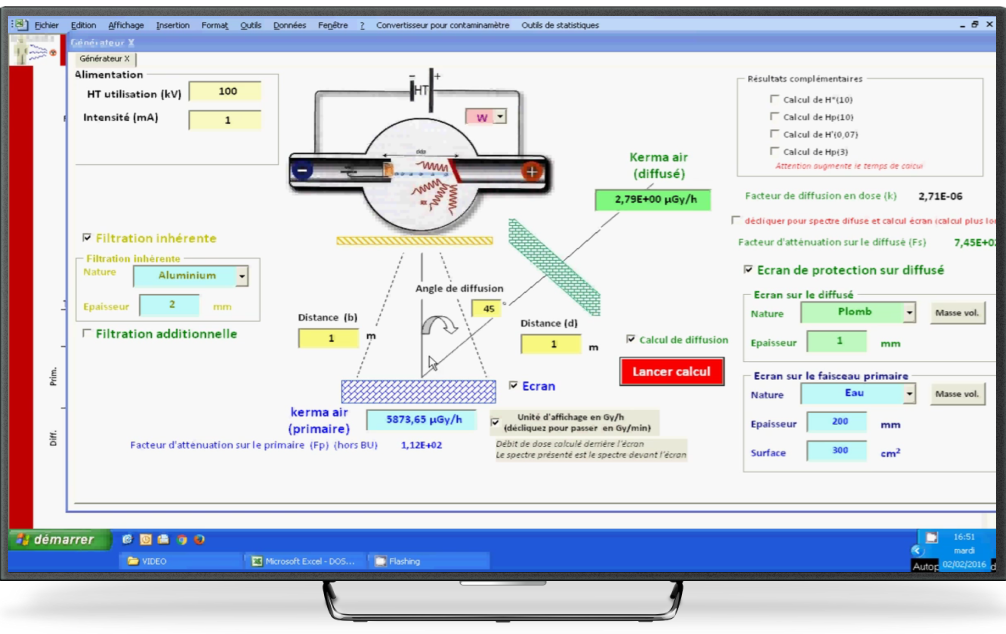
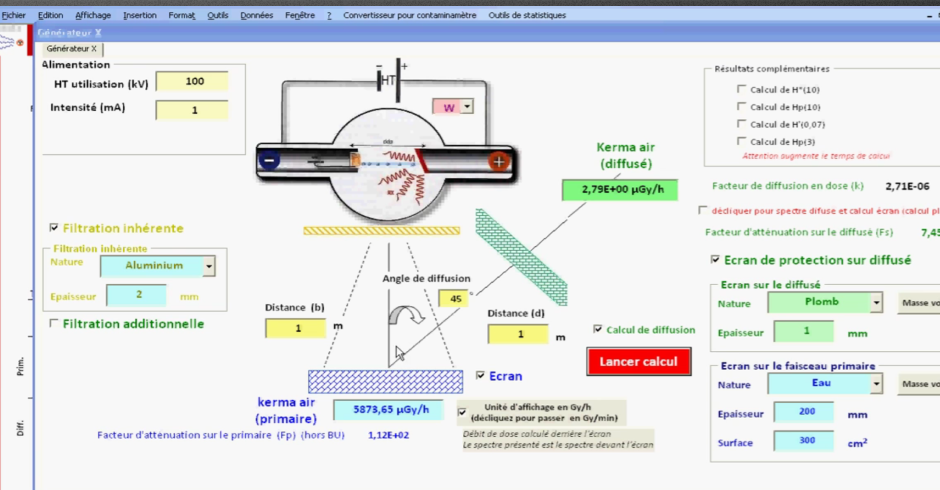
fix(astro): crop hero image and fix class-based dark mode
Remove fake desktop monitor frame from hero screenshot, keeping
only the application content. Enable Tailwind v4 class-based dark
mode via @custom-variant and respect OS prefers-color-scheme as
default when no explicit user choice is saved.

diff --git a/astro/src/styles/global.css b/astro/src/styles/global.css
@@ -1,5 +1,7 @@
 @import 'tailwindcss';
 
+@custom-variant dark (&:where(.dark, .dark *));
+
 @theme {
 	/* Primary — Dosimex Red */
 	--color-primary-50: #FEF2F3;
